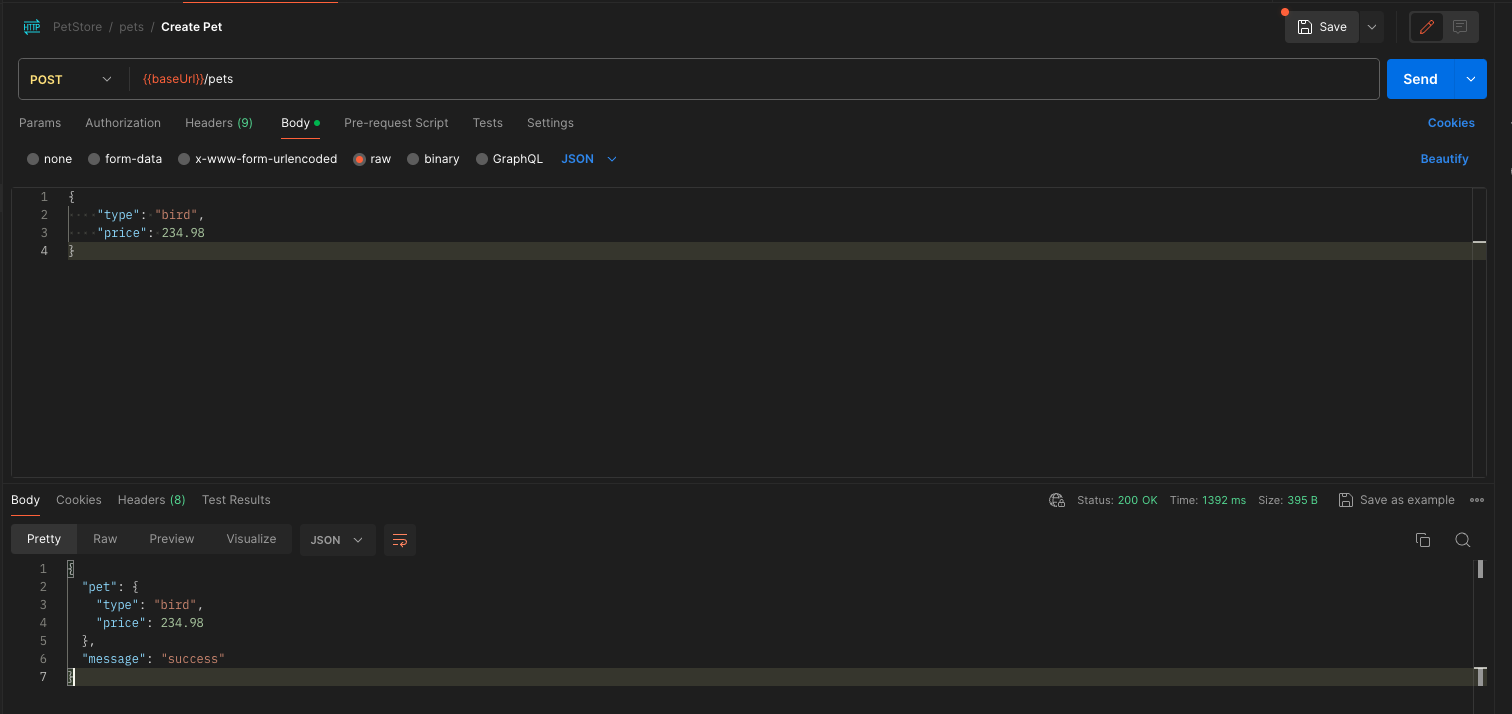
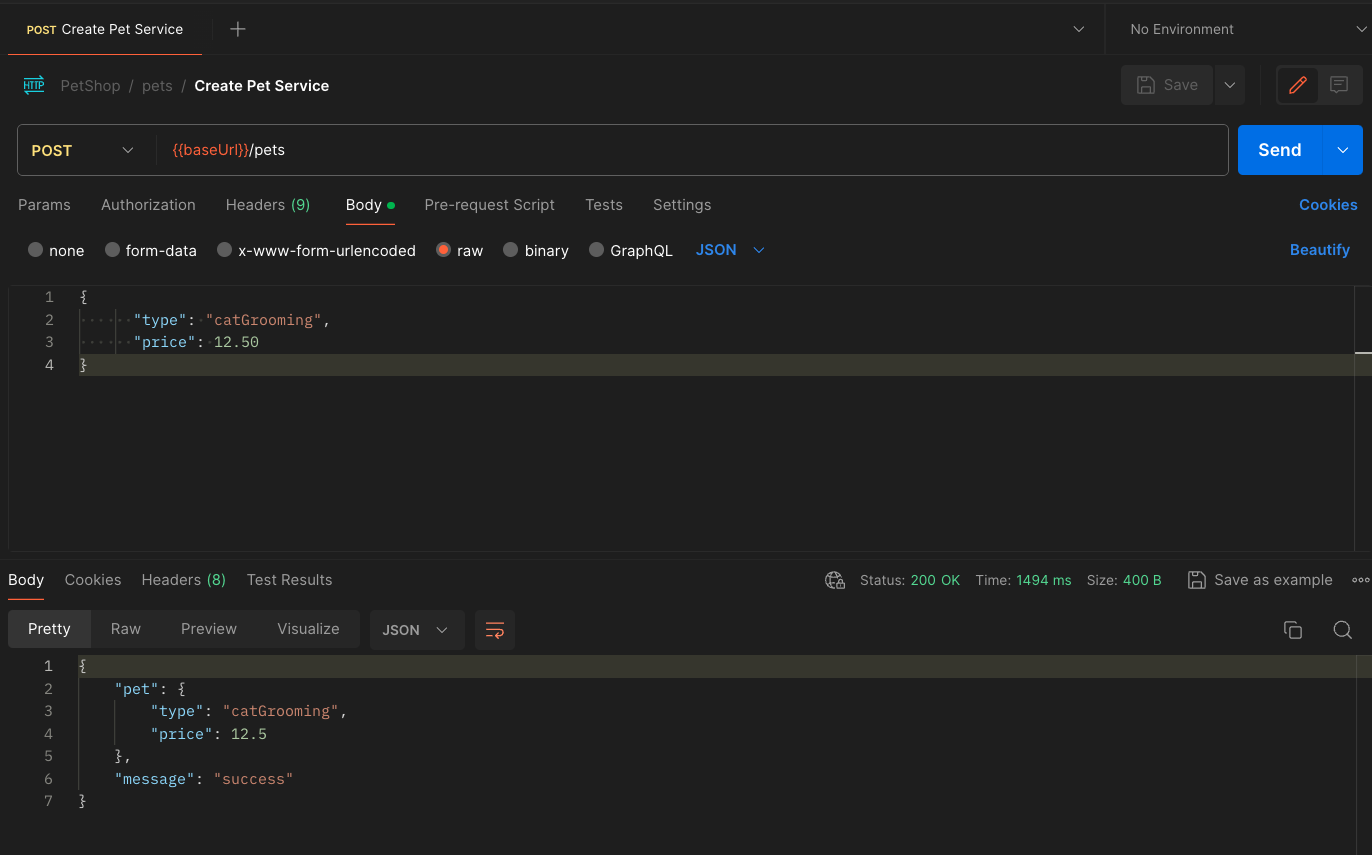
Api Gateway - Primeira API review

diff --git a/02-API-Gateway/01-Primeira-API/README.md b/02-API-Gateway/01-Primeira-API/README.md
@@ -10,102 +10,163 @@ OBJETIVO: Criar a primeira api no serviço [Amazon API Gateway](https://aws.amaz
    
    ![](img/2.png)
 
-3. Escolha a opção `API de exemplo` e clique em `Criar API`
+3. Escolha a opção `Importar API` e copie o para o campo `Definição de API` o conteúdo do arquivo [swagger-api.json]([swagger.yaml](https://raw.githubusercontent.com/vamperst/usp-serverless-computing/master/02-API-Gateway/01-Primeira-API/swagger-api.json)). Após colar o conteúdo clique em `Criar API`.
    
    ![](img/20.png)
 
    > [Swagger](https://swagger.io/) é uma especificação e um conjunto de ferramentas de código aberto projetadas para ajudar desenvolvedores a projetar, construir, documentar e consumir APIs RESTful de maneira fácil e eficiente. Atua como um contrato entre o serviço de API e seus consumidores, permitindo uma compreensão clara das funções da API, dos parâmetros esperados e dos formatos de resposta. As principais versões do Swagger incluem a versão 1.x, que introduziu o conceito; a versão 2.0, que trouxe melhorias significativas na especificação, permitindo descrições mais detalhadas das APIs, incluindo informações sobre autenticação, modelos de dados e métodos HTTP suportados; e a OpenAPI Specification (OAS) versão 3.0 e posteriores (3.0.x, 3.1.0), que evoluíram a partir do Swagger, ampliando ainda mais as capacidades de descrição da API com suporte a mais tipos de conteúdo, links entre operações, e outras funcionalidades avançadas. A transição para o termo OpenAPI Specification, adotado pela versão 3.0, reflete a maturidade e a adoção ampla da iniciativa, promovendo ainda mais a interoperabilidade e a padronização das APIs RESTful.
 
+<blockquote>
+Este documento é uma especificação Swagger versão 2.0 para uma API chamada "PetShop". A API é descrita como sua primeira API com o Amazon API Gateway e serve como uma demonstração que se integra via HTTP com endpoints de uma loja de animais fictícia.
 
-    > #### Explicação do Swagger da API de exemplo
-    > Este Swagger descreve uma API de mock chamada "PetStore", criada para demonstração com o Amazon API Gateway, simulando uma loja de animais de estimação com endpoints de demonstração via HTTP. A API é acessível via HTTPS e oferece várias operações relacionadas a pets, como listar todos os pets, criar um novo pet e obter informações de um pet específico através de seus respectivos endpoints `/pets`, `/pets/{petId}`, e a raiz `/`.
+- **Informações Gerais:**
+  - A API suporta o esquema HTTPS.
+  - A descrição fornece uma visão geral, mencionando que a API integra-se com os endpoints de demonstração da Pet Shop.
 
-   > A raiz `/` suporta um método `GET` que retorna uma página HTML com informações sobre o uso da API, servindo como uma introdução e guia rápido para novos usuários. Essa resposta é gerada por uma integração mock, demonstrando a flexibilidade do API Gateway em fornecer respostas estáticas ou dinâmicas.
+- **Endpoints:**
+  1. **GET /**
+     - Retorna uma página HTML da PetShop contendo informações de uso da API.
+     - Tags: pets
+     - Consumes: application/json
+     - Produces: text/html
+     - Responses:
+       - 200: Operação bem-sucedida, retorna uma página HTML.
 
-   > O endpoint `/pets` permite operações `GET` para listar todos os pets disponíveis, com suporte para filtragem por tipo e paginação através de parâmetros de query, e operações `POST` para criar um novo pet, aceitando um corpo de requisição JSON com as informações do pet.
+  2. **GET /pets**
+     - Lista todos os serviços para pets.
+     - Tags: pets
+     - Summary: Lista todos os serviços para pets.
+     - Produces: application/json
+     - Parâmetros opcionais: tipo de pet (type) e número da página (page) em query.
+     - Responses:
+       - 200: Operação bem-sucedida, retorna uma lista de pets.
 
-   > O endpoint `/pets/{petId}` é configurado para operações `GET`, permitindo que os usuários recuperem informações detalhadas de um pet específico fornecendo seu `petId` como parâmetro de caminho.
+  3. **POST /pets**
+     - Cria um serviço para pets.
+     - Tags: pets
+     - Summary: Cria um serviço para pets.
+     - Consumes: application/json
+     - Produces: application/json
+     - Parâmetros necessários: corpo da requisição com detalhes do novo serviço para pet.
+     - Responses:
+       - 200: Operação bem-sucedida, retorna a resposta para a criação de um novo serviço para pets.
 
-   > A API utiliza a versão 2.0 da especificação Swagger e inclui definições de modelos para `Pet`, `Pets`, `NewPet`, e `NewPetResponse`, facilitando a compreensão e o uso dos endpoints. A integração com o Amazon API Gateway é evidenciada pela presença de extensões `x-amazon-apigateway-integration`, que detalham como as requisições são mapeadas para os backends configurados, além de definir comportamentos específicos como o tratamento de CORS.
+  4. **OPTIONS /pets**
+     - Trata de preflight requests para o endpoint /pets.
+     - Consumes: application/json
+     - Produces: application/json
+     - Responses:
+       - 200: Operação bem-sucedida, retorna cabeçalhos necessários para controle de acesso.
+
+  5. **GET /pets/{petServiceId}**
+     - Informações para um pet específico.
+     - Tags: pets
+     - Summary: Informações para um serviço de pet específico.
+     - Produces: application/json
+     - Parâmetro necessário: petServiceId no path.
+     - Responses:
+       - 200: Operação bem-sucedida, retorna informações do pet especificado.
+
+  6. **OPTIONS /pets/{petServiceId}**
+     - Trata de preflight requests para o endpoint /pets/{petServiceId}.
+     - Consumes: application/json
+     - Produces: application/json
+     - Parâmetro necessário: petId no path.
+     - Responses:
+       - 200: Operação bem-sucedida, retorna cabeçalhos necessários para controle de acesso.
+
+- **Definições:**
+  - **Pets**: Uma lista de objetos pet.
+  - **Empty**: Um objeto vazio.
+  - **NewPetResponse**: A resposta para a criação de um novo serviço para pets.
+  - **Pet**: A estrutura de dados para um pet, incluindo id, tipo e preço.
+  - **NewPetService**: A estrutura de dados para criar um novo serviço para pets.
+  - **PetType**: Enumeração de tipos de pets (cão, gato, peixe, pássaro, gecko).
+
+- **Integrações e Configurações Adicionais:**
+  - A API faz uso de integrações específicas do Amazon API Gateway, como mock e HTTP integrations, com comportamentos de passagem configurados e templates de requisição.
+  - Suporta CORS (Cross-Origin Resource Sharing) configurando cabeçalhos de controle de acesso nas respostas.
+
+Esta especificação detalha como a API PetShop permite a criação, listagem e consulta de serviços para pets através de endpoints HTTP, utilizando métodos como GET, POST e OPTIONS, além de definir padrões de resposta e integração específicos para trabalhar com o Amazon API Gateway.
+</blockquote>
 
 
 
-4. No canto inferior direito da tela clique em `Importar`
-5. Sua API ficará com a seguinte estrutura:
+4. Sua API ficará com a seguinte estrutura:
    
    ![](img/4.png)
 
-6. Faça testes antes de executar o deploy da API. Para isso vá em `POST` do `/pets/`.
+5. Faça testes antes de executar o deploy da API. Para isso vá em `POST` do `/pets/`.
    
    ![](img/5.png)
 
-7. Clique na aba `Teste` no centro da tela.
-8.  No campo `Corpo de solicitação` cole o seguinte conteúdo:
+6. Clique na aba `Teste` no centro da tela.
+7.  No campo `Corpo de solicitação` cole o seguinte conteúdo:
    ``` json
-   {"type": "dog", "price": 249.99}
+   {"type": "dogbath", "price": 10.51}
    ```
 
    ![](img/6.png)
 
-9.  Na parte inferior da tela clique em `Teste`. Você executou o teste dessa chamada da sua API. Você pode ver a resposta em `Corpo de resposta` e todos os logs da chamada em `Logs`
+8.  Na parte inferior da tela clique em `Teste`. Você executou o teste dessa chamada da sua API. Você pode ver a resposta em `Corpo de resposta` e todos os logs da chamada em `Logs`
     
     ![](img/7.png)
 
-10. Agora sim é hora de implantar a API para ter uma URL a ser chamada. Para isso visite o canto superior direito da tela clique em `Implantar API`
+9.  Agora sim é hora de implantar a API para ter uma URL a ser chamada. Para isso visite o canto superior direito da tela clique em `Implantar API`
     
     ![](img/8.png)
 
-11. Preencha os campos do formulário como na imagem abaixo:
+10. Preencha os campos do formulário como na imagem abaixo:
 
     ![](img/9.png)
 
-12. Clique em `Implantar`.
-13. Pronto você criou sua primeira API no API Gateway e a URL para chamar esta na tela no campo `Invocar URL`.
-14. Vamos executar chamadas de teste via [POSTMAN](https://go.postman.co/home) para testar a API externamente. No topo direito clique em `Ações de estágio` e clique em `Exportar`.
+11. Clique em `Implantar`.
+12. Pronto você criou sua primeira API no API Gateway e a URL para chamar esta na tela no campo `Invocar URL`.
+13. Vamos executar chamadas de teste via [POSTMAN](https://go.postman.co/home) para testar a API externamente. No topo direito clique em `Ações de estágio` e clique em `Exportar`.
     ![](img/21.png)
 
-15. Escolha as opções abaixo e clique em `Exportar API`:
+14. Escolha as opções abaixo e clique em `Exportar API`:
     1. Tipo de especificação de API: `Swagger`
     2. Formanto: `YAML`
     3. Extensões: `Exportar com extensões Postman`
 
     ![](img/10.png)
 
-16. Abra o [POSTMAN](https://go.postman.co/home) no navegador para carregar o arquivo que foi baixado no passo anterior descrevendo como utilizar a API. Certifiquesse de que esta na workspace `usp-serverless-computing`.
-17. Dentro do Postman clique em `Import`.
+15. Abra o [POSTMAN](https://go.postman.co/home) no navegador para carregar o arquivo que foi baixado no passo anterior descrevendo como utilizar a API. Certifiquesse de que esta na workspace `usp-serverless-computing`.
+16. Dentro do Postman clique em `Import`.
     
     ![](img/11.png)
 
-18. Carregue o arquivo recém baixado do API Gateway. Após carregar o arquivo o postman ficará como na imagem abaixo, cliquem em `Import`:
+17. Carregue o arquivo recém baixado do API Gateway. Após carregar o arquivo o postman ficará como na imagem abaixo, cliquem em `Import`:
     
     ![](img/12.png)
 
-19. Expanda os campos até chegar em `POST Create Pet` e clique para abrir no editor. Copie o json abaixo no corpo da requisição na aba `Body`.
+18. Expanda os campos até chegar em `POST Create Pet Service` e clique para abrir no editor. Copie o json abaixo no corpo da requisição na aba `Body`.
     ``` json
     {
-      "type": "bird",
-      "price": 234.98
+      "type": "catGrooming",
+      "price": 12.50
     }
     ```
     
     ![](img/13.png)
 
-20. Clique em `Send` na lateral direita da tela. Você acabou de fazer uma chamada para sua API via postman.
+19. Clique em `Send` na lateral direita da tela. Você acabou de fazer uma chamada para sua API via postman.
     
     ![](img/14.png)
-21. Agora você fará uma chamada de listagem. Para isso clique em `Get /pets` para abrir no editor.
+20. Agora você fará uma chamada de listagem. Para isso clique em `Get /pets` para abrir no editor.
 
     ![](img/15.png)
 
-22. Edite o valor do campo `type` para `cat` e o valor do campo `page` para `1`.
+21. Edite o valor do campo `type` para `dogBath` e o valor do campo `page` para `1`.
     
     ![](img/16.png)
 
-23. Clique em `Send` no superior direito para executar a listagem.
+22. Clique em `Send` no superior direito para executar a listagem.
 
     ![](img/17.png)
 
-24. Como ultimo teste, o path principal da sua API retorna um HTML quando chamada via método GET(Caso dos navegadores). Retorne ao API Gateway e copie a URL da sua API e cole no navegador.
+23. Como ultimo teste, o path principal da sua API retorna um HTML quando chamada via método GET(Caso dos navegadores). Retorne ao API Gateway e copie a URL da sua API e cole no navegador.
     
     ![](img/18.png)
 
